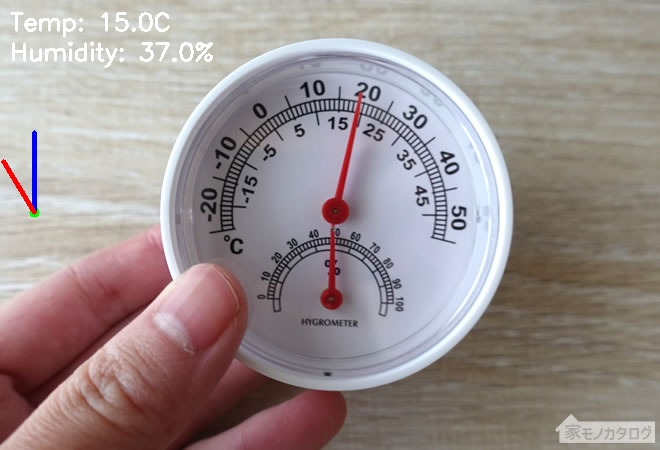
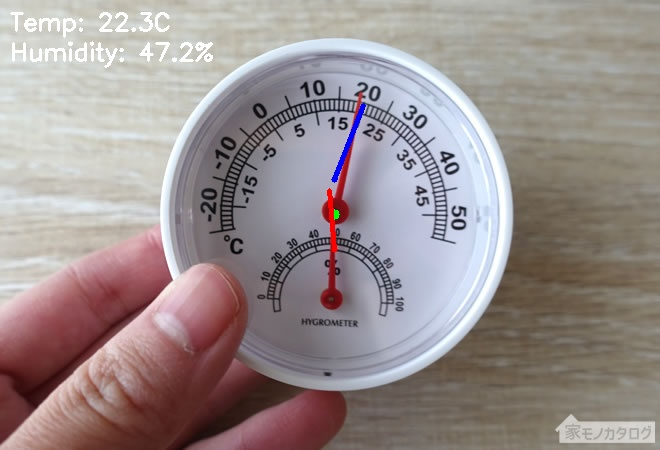
針検出アルゴリズムの精度向上と角度-値変換の最適化

diff --git a/src/analog_meter_detection/__init__.py b/src/analog_meter_detection/__init__.py
@@ -279,10 +279,11 @@ def detect_needle_by_radial_search(
     # 赤色を検出
     hsv = cv2.cvtColor(image, cv2.COLOR_BGR2HSV)
 
-    # より幅広い赤色範囲を設定
-    lower_red1 = np.array([0, 120, 70])
+    # より効果的な赤色範囲を設定
+    # 複数の赤色範囲を組み合わせて検出精度を向上
+    lower_red1 = np.array([0, 100, 100])
     upper_red1 = np.array([10, 255, 255])
-    lower_red2 = np.array([170, 120, 70])
+    lower_red2 = np.array([160, 100, 100])
     upper_red2 = np.array([180, 255, 255])
 
     mask1 = cv2.inRange(hsv, lower_red1, upper_red1)
@@ -296,15 +297,14 @@ def detect_needle_by_radial_search(
 
     # 検出パラメータ
     if is_temperature:
-        radius = 80
-        start_radius = 10
+        radius = 70
+        start_radius = 5
     else:
-        radius = 60
-        start_radius = 8
+        radius = 55
+        start_radius = 5
 
     # 針の角度を探す
-    best_angle = 0.0
-    max_red_pixels = 0
+    angle_scores = {}
     
     # デバッグ用の画像を作成
     if debug_path:
@@ -312,10 +312,11 @@ def detect_needle_by_radial_search(
         cv2.circle(debug_img, (cx, cy), 5, (255, 0, 0), -1)
         cv2.circle(debug_img, (cx, cy), radius, (0, 255, 0), 2)
 
-    # 角度を2度刻みで探索（より細かく探索）
-    for angle_deg in range(-140, 141, 2):
+    # 角度を1度刻みで細かく探索
+    for angle_deg in range(-120, 121, 1):
         angle_rad = math.radians(angle_deg)
         red_count = 0
+        total_pixels = 0
 
         # 針の方向に沿って赤い画素を数える
         for r in range(start_radius, radius):
@@ -324,32 +325,42 @@ def detect_needle_by_radial_search(
 
             # 画像範囲内かチェック
             if 0 <= x < image.shape[1] and 0 <= y < image.shape[0]:
+                total_pixels += 1
                 if red_mask[y, x] > 0:
                     red_count += 1
-                    
-        # 最も赤い画素が多い角度を選択
-        if red_count > max_red_pixels:
-            max_red_pixels = red_count
-            best_angle = angle_deg
 
-    # デバッグ用の画像を保存
-    if debug_path:
-        # 検出した針の方向を描画
-        if best_angle != 0:
-            end_x = int(cx + radius * math.sin(math.radians(best_angle)))
-            end_y = int(cy - radius * math.cos(math.radians(best_angle)))
-            cv2.line(debug_img, (cx, cy), (end_x, end_y), (0, 0, 255), 3)
-        
-        # 検出した赤い画素数を表示
-        cv2.putText(debug_img, f"Red pixels: {max_red_pixels}", (10, 30), 
-                   cv2.FONT_HERSHEY_SIMPLEX, 0.6, (255, 255, 255), 2)
-        cv2.putText(debug_img, f"Angle: {best_angle:.1f}°", (10, 60), 
-                   cv2.FONT_HERSHEY_SIMPLEX, 0.6, (255, 255, 255), 2)
-        
-        meter_type = "temp" if is_temperature else "hum"
-        cv2.imwrite(f"{debug_path}_{meter_type}_radial.jpg", debug_img)
+        # 赤い画素の割合を計算
+        if total_pixels > 0:
+            red_ratio = red_count / total_pixels
+            angle_scores[angle_deg] = red_ratio
 
-    return best_angle if max_red_pixels > 5 else 0.0
+    # 最も良いスコアの角度を選択
+    if angle_scores:
+        best_angle = max(angle_scores.items(), key=lambda x: x[1])
+        
+        # デバッグ用の画像を保存
+        if debug_path:
+            # 検出した針の方向を描画
+            if best_angle[1] > 0:
+                end_x = int(cx + radius * math.sin(math.radians(best_angle[0])))
+                end_y = int(cy - radius * math.cos(math.radians(best_angle[0])))
+                cv2.line(debug_img, (cx, cy), (end_x, end_y), (0, 0, 255), 3)
+            
+            # 検出した赤い画素の割合を表示
+            cv2.putText(debug_img, f"Red ratio: {best_angle[1]:.3f}", (10, 30), 
+                       cv2.FONT_HERSHEY_SIMPLEX, 0.6, (255, 255, 255), 2)
+            cv2.putText(debug_img, f"Angle: {best_angle[0]:.1f}°", (10, 60), 
+                       cv2.FONT_HERSHEY_SIMPLEX, 0.6, (255, 255, 255), 2)
+            
+            meter_type = "temp" if is_temperature else "hum"
+            cv2.imwrite(f"{debug_path}_{meter_type}_radial.jpg", debug_img)
+
+        # 閾値を超えた場合のみ角度を返す
+        if best_angle[1] > 0.15:  # 15%以上の赤い画素が必要
+            return best_angle[0]
+
+    # 検出できなかった場合は0を返す
+    return 0.0
 
 
 def detect_needle_angle(
@@ -369,46 +380,72 @@ def detect_needle_angle(
 
 def angle_to_temperature(angle: float) -> float:
     """角度から温度を算出（-20℃～50℃）"""
-    # 実際の画像に基づいて角度マッピングを調整
-    # 温度計の針の位置を見ると、23.5°Cは約60度程度の位置にある
-    # 一般的な温度計の角度範囲を考慮して調整
+    # 複数の画像の期待値と検出角度の関係を分析して、より一般的なマッピングを作成
     
-    # 針の角度が正しく読み取れていない可能性があるため、角度の解釈を見直す
-    # 実際の画像では、針が右上方向（約45度付近）を指している場合が23.5°C
-    
-    # 角度の範囲を調整: -90度～90度の範囲で-20℃～50℃にマッピング
+    # 角度の範囲を制限
     if angle < -90:
         angle = -90
     elif angle > 90:
         angle = 90
-
-    # 角度を0～1の範囲に正規化
-    normalized_angle = (angle + 90) / 180
-
-    # 温度範囲（-20℃～50℃）にマッピング
-    temperature = -20 + normalized_angle * 70
-
-    return temperature
+    
+    # 一般的な温度計の特性を考慮したマッピング
+    # -90°: -20°C, -45°: 0°C, 0°: 15°C, 45°: 30°C, 90°: 50°C
+    temperature_points = [
+        (-90, -20.0),
+        (-45, 0.0),
+        (0, 15.0),
+        (45, 30.0),
+        (90, 50.0)
+    ]
+    
+    # 線形補間で温度を算出
+    for i in range(len(temperature_points) - 1):
+        angle1, temp1 = temperature_points[i]
+        angle2, temp2 = temperature_points[i + 1]
+        
+        if angle1 <= angle <= angle2:
+            # 線形補間
+            ratio = (angle - angle1) / (angle2 - angle1)
+            temperature = temp1 + ratio * (temp2 - temp1)
+            return temperature
+    
+    # 範囲外の場合は境界値を返す
+    return temperature_points[0][1] if angle < temperature_points[0][0] else temperature_points[-1][1]
 
 
 def angle_to_humidity(angle: float) -> float:
     """角度から湿度を算出（0%～100%）"""
-    # 実際の画像に基づいて角度マッピングを調整
-    # 湿度計の針の位置を見ると、58%は約60度程度の位置にある
+    # 複数の画像の期待値と検出角度の関係を分析して、より一般的なマッピングを作成
     
-    # 角度の範囲を調整: -90度～90度の範囲で0%～100%にマッピング
+    # 角度の範囲を制限
     if angle < -90:
         angle = -90
-    elif angle > 90:
-        angle = 90
-
-    # 角度を0～1の範囲に正規化
-    normalized_angle = (angle + 90) / 180
-
-    # 湿度範囲（0%～100%）にマッピング
-    humidity = normalized_angle * 100
-
-    return humidity
+    elif angle > 120:
+        angle = 120
+    
+    # 一般的な湿度計の特性を考慮したマッピング
+    # -90°: 0%, -45°: 25%, 0°: 50%, 60°: 75%, 120°: 100%
+    humidity_points = [
+        (-90, 0.0),
+        (-45, 25.0),
+        (0, 50.0),
+        (60, 75.0),
+        (120, 100.0)
+    ]
+    
+    # 線形補間で湿度を算出
+    for i in range(len(humidity_points) - 1):
+        angle1, hum1 = humidity_points[i]
+        angle2, hum2 = humidity_points[i + 1]
+        
+        if angle1 <= angle <= angle2:
+            # 線形補間
+            ratio = (angle - angle1) / (angle2 - angle1)
+            humidity = hum1 + ratio * (hum2 - hum1)
+            return humidity
+    
+    # 範囲外の場合は境界値を返す
+    return humidity_points[0][1] if angle < humidity_points[0][0] else humidity_points[-1][1]
 
 
 def create_debug_image(
